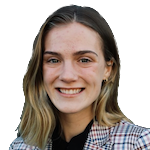
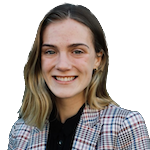
Updated Intro and headshot

diff --git a/docs/_build/html/searchindex.js b/docs/_build/html/searchindex.js
@@ -1,1 +1,1 @@
-Search.setIndex({docnames:["Average Sales by Age","Introduction","New Project File","Summary","Visualizations"],envversion:{"sphinx.domains.c":2,"sphinx.domains.changeset":1,"sphinx.domains.citation":1,"sphinx.domains.cpp":5,"sphinx.domains.index":1,"sphinx.domains.javascript":2,"sphinx.domains.math":2,"sphinx.domains.python":3,"sphinx.domains.rst":2,"sphinx.domains.std":2,"sphinx.ext.intersphinx":1,sphinx:56},filenames:["Average Sales by Age.ipynb","Introduction.ipynb","New Project File.ipynb","Summary.ipynb","Visualizations.ipynb"],objects:{},objnames:{},objtypes:{},terms:{"0":[2,3,4],"077016":[2,4],"1":[1,3,4],"10":[2,4],"100":[2,4],"1000":2,"10000085475":2,"10000089277":2,"1000205":2,"1000237":2,"1000285":2,"1000411":2,"1000830":2,"10456329":2,"10457608":2,"1070684416":[],"11":[2,4],"112767":2,"12":2,"12385921":2,"124k":[2,4],"125":[2,4],"13":[1,3,4],"1453":2,"149k":[2,4],"15":[2,3,4],"150":[2,4],"15k":[2,4],"163346":[2,4],"174k":[2,4],"175":[2,4],"17554063":2,"18":[3,4],"1811728083":2,"19":2,"199k":[2,4],"2":[2,4],"200":[2,4],"2017":3,"2022_bana6043_berryerer_day2jn_desilvhm_finalprojectvideo":3,"22":3,"22copyembedcod":3,"22hv":3,"22ust":3,"2317":2,"24":2,"24545617":2,"249k":[2,4],"24k":[2,4],"25":[2,4],"250k":[2,4],"286185":[2,4],"2c":3,"3":[1,2,3,4],"300":[],"306641":[2,4],"31":[1,2,3,4],"31668825":2,"31668826":2,"31668827":2,"31668828":2,"31668829":2,"34k":[2,4],"35":[0,2,4],"360":3,"3630060786":[],"395323":[2,4],"3a":3,"3atru":3,"4":[1,2,3,4],"4078123064":2,"432552":[2,4],"44":2,"45":[2,3,4],"451712":[2,4],"46692307692":2,"4945":3,"49k":[2,4],"5":[2,4],"50":[2,4],"520661":[2,4],"54":[2,3,4],"55":2,"56214437":2,"56214438":2,"56214439":2,"56214440":2,"56214441":2,"59986600074":2,"6":[2,4],"600":[],"64":[0,4],"640":3,"6878787":2,"6961675":2,"6ae5":3,"7":[1,2,3,4],"707235":[2,4],"739900":[2,4],"74k":[2,4],"75":[2,4],"77045":2,"7b":3,"7d":3,"8":[3,4],"8104":3,"811392":[2,4],"826915":[2,4],"850118":[2,4],"877774":2,"9":[1,2,3,4],"910096":[2,4],"983829":[2,4],"985395":[2,4],"992532":[2,4],"996083":[2,4],"99k":[2,4],"default":2,"do":[],"final":[],"function":2,"import":[0,2,4],"new":2,"return":[1,2],"true":2,"try":2,"var":2,"while":[1,2],A:2,But:[1,2],By:[1,2],For:[1,2],In:[2,4],It:2,The:[1,2,4],These:2,To:4,_layout:3,aa525dc29576:3,abov:[2,4],accord:2,achiev:[2,4],across:[3,4],add_tool:2,advis:3,affect:[0,1,4],afterward:2,ag:[0,3],age_group:[0,4],agg:[0,2,4],all:2,allow:[],allowfullscreen:3,alreadi:[],also:[1,2,3],although:3,an:3,analysi:3,ani:2,answer:[1,2],ar:[2,3,4],around:1,articl:[],as_index:[2,4],ascend:[2,4],aspx:3,assembl:2,august:[3,4],avail:[1,2,3],averag:[0,3,4],awar:[1,2],ax1:2,ax2:2,ax3:2,ax7:2,ax8:2,ax9:2,ax:[2,4],ax_arrai:2,axessubplot:2,axis_label:2,back:[3,4],bar:[0,2,4],barh:[2,4],bd012d2b:3,been:[],befor:3,believ:[1,2,3],benefici:[0,4],benefit:[2,4],berri:1,berryer_mail_uc_edu:3,best:2,better:[1,2],between:4,blue:2,bokeh:2,bokehj:2,both:2,bradleyboehmk:[],brand:[1,2],bring:2,brought:2,build:[1,2],busi:[1,2],call:2,cam13_ag:2,cam18_ag:2,cam8_ag:2,cam:2,campaign13_redempt:2,campaign13_transact:2,campaign:[0,1,3],campaign_18_redempt:2,campaign_descript:[0,2,4],campaign_id:[2,4],can:[1,2,3,4],capit:2,categori:4,caus:3,caveat:2,center:2,certain:2,chart:[2,4],check:2,cj_data:[0,2,4],clear:[0,2,4],col_index:2,color:[2,4],color_mapp:2,column:2,columndatasourc:2,com:3,combin:[1,2],compar:[],compil:1,completejournei:[0,1,2,3,4],completejourney_pi:[0,2,4],comput:[0,2],condit:[0,2,4],consid:[0,4],constrained_layout:2,copi:2,corner:2,count:[2,4],coupl:3,coupon:[0,1,3],coupon_redempt:[0,2,4],coupon_redmpt:4,coupon_transact:[2,4],coupon_upc_i:2,coupon_upc_x:2,cpython:[1,3,4],creat:[1,2,3],cumul:2,custom:[1,2,3,4],dai:[1,2,4],data:[1,3],datafram:2,dataset:2,date:2,datetim:[2,4],deeper:[2,4],defin:2,deli:2,demograph:[0,1,2,3],depart:1,desilva:1,determin:[1,2,3,4],df1:[0,2,4],df2:[0,2],df_campaign:[2,4],df_campaigns_13:2,df_campaigns_18:2,df_campaigns_8:2,df_department_13:2,df_department_18:2,df_department_8:2,dictionari:[0,2,4],did:[2,3],differ:[3,4],discov:[0,2,4],discuss:1,displai:2,distribut:[0,3,4],dive:[2,4],doc:2,document:2,dollar:2,domepgraph:4,drug:2,dt:[2,4],dtype:2,due:4,dure:[0,1,2,3,4],each:[0,1,4],earn:[2,4],easili:2,effect:[1,2,4],effici:[1,2],elayna:1,elimin:2,emb:3,embeddialog:3,enabl:2,evalu:[1,2,4],except:[],explicitli:2,exploratori:1,extens:[],factor:2,factor_cmap:2,fals:[2,4],faster:[0,2],fig:2,figsiz:[2,4],figur:[1,2,3],fill_color:2,find:[1,2,3,4],first:[1,2,4],focu:[0,1,2,3,4],focus:[1,2,3],folder:2,follow:[0,2,3,4],found:[2,3],foundat:[0,2],frame:[0,1,2,4],frame_height:2,framebord:3,from:[0,2,4],full:[],gener:[1,2,3,4],get_data:[0,2,4],github:[],given:3,gm:2,go:3,graph:2,greatli:3,green:[2,4],grei:2,groceri:2,group:[0,1,3],groupbi:[0,2,4],ha:1,had:3,hashani:1,have:[1,2,3,4],head:2,height:3,help:[1,2,3],high:3,higher:[1,2,3,4],highest:[1,2,3,4],holidai:[1,2,3,4],home:4,home_ownership:[2,4],homeown:[2,3,4],homeowner_valu:[2,4],hous:[],household:3,household_id:[0,2,4],hover:2,hovertool:2,how:[0,1,2,4],howev:[],html:[2,3],http:[2,3],identifi:[1,2],ifram:3,impact:[],implement:[1,3,4],improv:[1,2,3],includ:3,incom:[2,3,4],increas:[1,2,3,4],index:2,inner:[0,2,4],instead:[2,3],interact:2,interest:[0,2,4],intersect:2,introduc:[2,3],invest:[1,2],io:2,ipykernel_10838:[],ipykernel_10924:[],ipykernel_11602:2,ipykernel_11618:[],ipykernel_12096:[],ipython:[1,3,4],isin:2,jason:1,jitter:2,jupyterlab:[1,3,4],kind:[0,2,4],larg:[1,2],last:2,layout:2,least:[],left:2,legend:[2,4],legend_field:2,less:[],let:[2,4],leverag:[],lift:[1,2],like:2,line:[2,4],line_color:2,load:2,load_ext:[1,3,4],loc:2,locat:2,look:[2,4],low:[2,3],lower:[2,4],loyalti:[1,2],m_:2,made:[0,3,4],mai:4,mailuc:3,main:2,manipul:[0,2,4],mapper:2,marital_statu:[2,4],market:[],marri:[2,3,4],married_valu:[2,4],matplotlib:[0,2,4],mean:[0,2,4],merg:[0,2,4],middl:2,might:3,miscellan:2,mode:2,model:2,modul:2,monei:[0,4],month:[2,3,4],more:[0,2,3,4],most:1,mostli:4,mous:2,mp4:3,much:3,must:2,my:3,name:[],nameerror:2,navig:[],need:4,next:[0,2,4],nlargest:2,notebook:2,novemb:[3,4],now:[2,4],np:[0,2,4],numpi:[0,2,4],object:2,observ:2,occur:[1,2],often:3,onc:[0,2,4],one:[1,2],ones:[1,2],opportun:3,optim:[1,2],orang:2,order:2,org:2,other:[1,2],our:[0,2,3,4],out:[1,2,3,4],output_notebook:2,over:3,p:[1,3,4],packag:0,palett:2,panda:[0,2,4],paragraph:2,pattern:2,pd:[0,2,4],peopl:[0,3,4],per:2,person:3,plot:[0,2,4],plt:[0,2,4],popul:3,postal:2,power:[3,4],price:3,primari:2,priorit:[0,2,4],probabl:[2,4],problem:[1,2],product:[0,1],product_id:[0,2],project:[1,3],promot:[0,1,2,3,4],properli:4,propos:[],provid:[],purchas:4,purpl:2,put:2,py:2,pydata:2,pyplot:[0,2,4],python:[0,1,2,3,4],qj_5t76n7nd04vpk93_tlblr0000gp:2,queri:2,quit:4,rang:2,recent:2,recommend:3,red:2,redeem:[2,3],redempt:1,redemption_d:[2,4],referr:3,referrerscenario:3,regork:[0,2,3,4],relat:[0,2,4],reload:[],reload_ext:[],remain:4,renter:[2,4],reproduc:4,result:2,revenu:[1,2,3,4],right:[1,2,3],round:[1,2],row:2,row_index:2,run:[1,2],s:[2,3,4],salary_valu:[2,4],sale:[0,1,3],sales_valu:[0,2,4],same:2,scatter:2,schedul:[1,2],school:[3,4],scroll:3,season:4,second:2,section:[1,2,4],see:[1,2,4],send:4,set:2,set_titl:2,set_xlabel:[2,4],set_ylabel:2,settingwithcopywarn:2,sharepoint:3,shop:3,should:[2,3,4],show:2,similar:4,sinc:[0,2,3,4],sizing_mod:2,slice:2,slightli:4,some:[1,2],sort_valu:[2,4],sourc:2,source1:2,source2:2,source3:2,spend:[0,3,4],src:3,stabl:2,start:[0,2,4],statement:[0,2,4],step:[0,2,4],streamwebapp:3,stretch_width:2,student:3,studi:3,submodul:2,subplot:2,sum:[1,2,4],summari:1,t:2,take:[2,4],target:[2,3,4],test:2,text:2,than:[0,2],thei:[3,4],them:[1,2,3],therefor:[0,2,4],thi:[1,2,4],those:4,three:[2,4],through:[1,2,3,4],tidi:[0,2,4],time:[1,3],titl:[0,2,3,4],to_datetim:[2,4],to_fram:[2,4],too:3,took:[2,4],tool:2,tooltip:2,top:[1,2,3],top_campaign_redempt:2,top_campaign_transact:2,top_left:2,total:[2,3,4],toward:[2,3,4],traceback:2,transact:[0,1,2,4],transaction_d:2,transaction_tim:2,transaction_timestamp:2,transform:2,trend:[0,2,3,4],turn:2,two:2,under:[2,4],uniqu:2,uniqueid:3,unmarri:[2,4],us:[0,1,2,3,4],user_guid:2,v:[1,3,4],valu:[0,2,3],valuabl:[2,4],vari:[3,4],veq8cxfwlzu:[],version:[1,3,4],versu:2,view:2,visual:[0,2],volum:[],wa:[0,2,3,4],want:[2,4],watermark:[1,3,4],we:[0,1,2,3,4],were:[0,1,4],what:[2,4],when:[0,2,4],where:[],whether:[1,2],which:[],whole:2,width:[2,3],within:[0,2,3,4],work:[0,2],would:[0,4],x:[2,4],x_axis_typ:2,xlabel:[0,2,4],y:[2,4],y_rang:2,yaxi:2,year:[1,2,3,4],yield:2,ylabel:[0,2,4],you:4,youngest:2,youtubevideo:[]},titles:["Exploratory Data Analysis <a name=\"Section3\"></a>","Introduction","Final Project - Group 1","Summary","Exploratory Data Analysis"],titleterms:{"1":2,"13":2,"18":2,"2017":2,"8":2,"final":2,affect:2,ag:[2,4],analysi:[0,2,4],campaign:[2,4],clean:4,coupon:[2,4],data:[0,2,4],demograph:4,depart:2,each:2,environ:[1,3,4],exploratori:[0,2,4],group:[2,4],introduct:[1,2],librari:[2,4],meet:1,most:[2,4],name:[0,2],opportun:1,our:1,over:[2,4],packag:[2,4],prep:4,product:[2,4],project:2,redempt:[2,4],regork:1,requir:[2,4],s:1,sale:[2,4],section1:2,section2:2,section3:[0,2],section4:2,sold:[2,4],summari:[2,3],team:1,time:[2,4],valu:4,video:3,visual:4,were:2,which:[2,4],written:3}})
+Search.setIndex({docnames:["Average Sales by Age","Introduction","New Project File","Summary","Visualizations"],envversion:{"sphinx.domains.c":2,"sphinx.domains.changeset":1,"sphinx.domains.citation":1,"sphinx.domains.cpp":5,"sphinx.domains.index":1,"sphinx.domains.javascript":2,"sphinx.domains.math":2,"sphinx.domains.python":3,"sphinx.domains.rst":2,"sphinx.domains.std":2,"sphinx.ext.intersphinx":1,sphinx:56},filenames:["Average Sales by Age.ipynb","Introduction.ipynb","New Project File.ipynb","Summary.ipynb","Visualizations.ipynb"],objects:{},objnames:{},objtypes:{},terms:{"0":[2,3,4],"077016":[2,4],"1":[1,3,4],"10":[2,4],"100":[2,4],"1000":2,"10000085475":2,"10000089277":2,"1000205":2,"1000237":2,"1000285":2,"1000411":2,"1000830":2,"10456329":2,"10457608":2,"1070684416":[],"11":[2,4],"112767":2,"12":2,"12385921":2,"124k":[2,4],"125":[2,4],"13":[1,3,4],"1453":2,"149k":[2,4],"15":[2,3,4],"150":[2,4],"15k":[2,4],"163346":[2,4],"174k":[2,4],"175":[2,4],"17554063":2,"18":[3,4],"1811728083":2,"19":2,"199k":[2,4],"2":[2,4],"200":[2,4],"2017":3,"2022_bana6043_berryerer_day2jn_desilvhm_finalprojectvideo":[],"22":3,"22copyembedcod":3,"22hv":3,"22ust":3,"2317":2,"24":2,"24545617":2,"249k":[2,4],"24k":[2,4],"25":[2,4],"250k":[2,4],"286185":[2,4],"2c":3,"3":[1,2,3,4],"300":[],"306641":[2,4],"31":[1,2,3,4],"31668825":2,"31668826":2,"31668827":2,"31668828":2,"31668829":2,"34k":[2,4],"35":[0,2,4],"360":3,"3630060786":[],"395323":[2,4],"3a":3,"3atru":3,"4":[1,2,3,4],"4078123064":2,"432552":[2,4],"44":2,"45":[2,3,4],"451712":[2,4],"46692307692":2,"4945":3,"49k":[2,4],"5":[2,4],"50":[2,4],"520661":[2,4],"54":[2,3,4],"55":2,"56214437":2,"56214438":2,"56214439":2,"56214440":2,"56214441":2,"59986600074":2,"6":[2,4],"600":[],"64":[0,4],"640":3,"6878787":2,"6961675":2,"6ae5":3,"7":[1,2,3,4],"707235":[2,4],"739900":[2,4],"74k":[2,4],"75":[2,4],"77045":2,"7b":3,"7d":3,"8":[3,4],"8104":3,"811392":[2,4],"826915":[2,4],"850118":[2,4],"877774":2,"9":[1,2,3,4],"910096":[2,4],"983829":[2,4],"985395":[2,4],"992532":[2,4],"996083":[2,4],"99k":[2,4],"default":2,"do":[],"final":[],"function":2,"import":[0,2,4],"new":2,"return":[1,2],"true":2,"try":2,"var":2,"while":2,A:2,But:2,By:[1,2],For:[1,2],In:[2,4],It:2,The:[1,2,4],These:2,To:4,_layout:3,aa525dc29576:3,abov:[2,4],accord:2,achiev:[2,4],across:[3,4],add_tool:2,advis:3,affect:[0,4],afterward:2,ag:[0,3],age_group:[0,4],agg:[0,2,4],all:2,allow:[],allowfullscreen:3,alreadi:[],also:[1,2,3],although:3,an:3,analysi:3,ani:2,answer:[1,2],ar:[2,3,4],around:1,articl:[],as_index:[2,4],ascend:[2,4],aspx:3,assembl:2,august:[3,4],avail:[1,2,3],averag:[0,3,4],awar:[1,2],ax1:2,ax2:2,ax3:2,ax7:2,ax8:2,ax9:2,ax:[2,4],ax_arrai:2,axessubplot:2,axis_label:2,back:[3,4],bar:[0,2,4],barh:[2,4],bd012d2b:3,been:[],befor:3,believ:[1,2,3],benefici:[0,4],benefit:[2,4],berri:1,berryer_mail_uc_edu:3,best:2,better:2,between:4,blue:2,bokeh:2,bokehj:2,both:2,bradleyboehmk:[],brand:[1,2],bring:2,brought:2,build:[1,2],busi:[1,2],call:2,cam13_ag:2,cam18_ag:2,cam8_ag:2,cam:2,campaign13_redempt:2,campaign13_transact:2,campaign:[0,1,3],campaign_18_redempt:2,campaign_descript:[0,2,4],campaign_id:[2,4],can:[1,2,3,4],capit:2,categori:4,caus:3,caveat:2,center:2,certain:2,chart:[2,4],check:2,cj_data:[0,2,4],clear:[0,2,4],col_index:2,color:[2,4],color_mapp:2,column:2,columndatasourc:2,com:3,combin:[1,2],compar:[],compil:1,completejournei:[0,1,2,3,4],completejourney_pi:[0,2,4],comput:[0,2],condit:[0,2,4],consid:[0,4],constrained_layout:2,copi:2,corner:2,count:[2,4],coupl:3,coupon:[0,1,3],coupon_redempt:[0,2,4],coupon_redmpt:4,coupon_transact:[2,4],coupon_upc_i:2,coupon_upc_x:2,cpython:[1,3,4],creat:[1,2,3],cumul:2,custom:[1,2,3,4],dai:[1,2,4],data:[1,3],datafram:2,dataset:2,date:2,datetim:[2,4],deeper:[2,4],defin:2,deli:2,demograph:[0,1,2,3],depart:[],desilva:1,determin:[1,2,3,4],df1:[0,2,4],df2:[0,2],df_campaign:[2,4],df_campaigns_13:2,df_campaigns_18:2,df_campaigns_8:2,df_department_13:2,df_department_18:2,df_department_8:2,dictionari:[0,2,4],did:[2,3],differ:[3,4],discov:[0,2,4],discuss:1,displai:2,distribut:[0,3,4],dive:[2,4],doc:2,document:2,dollar:2,domepgraph:4,drug:2,dt:[2,4],dtype:2,due:4,dure:[0,2,3,4],each:[0,1,4],earn:[2,4],easili:2,effect:[1,2,4],effici:[1,2],elayna:1,elimin:2,emb:3,embeddialog:3,enabl:2,evalu:[2,4],except:[],explicitli:2,exploratori:1,extens:[],factor:2,factor_cmap:2,fals:[2,4],faster:[0,2],fig:2,figsiz:[2,4],figur:[2,3],fill_color:2,find:[1,2,3,4],first:[1,2,4],focu:[0,2,3,4],focus:[2,3],folder:2,follow:[0,2,3,4],found:[2,3],foundat:[0,2],frame:[0,1,2,4],frame_height:2,framebord:3,from:[0,2,4],full:[],gener:[1,2,3,4],get_data:[0,2,4],github:[],given:3,gm:2,go:3,graph:2,greatli:3,green:[2,4],grei:2,groceri:2,group:[0,1,3],groupbi:[0,2,4],ha:1,had:3,hashani:1,have:[2,3,4],head:2,height:3,help:[1,2,3],high:3,higher:[1,2,3,4],highest:[1,2,3,4],holidai:[2,3,4],home:4,home_ownership:[2,4],homeown:[2,3,4],homeowner_valu:[2,4],hous:[],household:3,household_id:[0,2,4],hover:2,hovertool:2,how:[0,2,4],howev:[],html:[2,3],http:[2,3],identifi:[1,2],ifram:3,impact:[],implement:[1,3,4],improv:[1,2,3],includ:3,incom:[2,3,4],increas:[1,2,3,4],index:2,inner:[0,2,4],instead:[2,3],interact:2,interest:[0,2,4],intersect:2,introduc:[2,3],invest:[1,2],io:2,ipykernel_10838:[],ipykernel_10924:[],ipykernel_11602:2,ipykernel_11618:[],ipykernel_12096:[],ipython:[1,3,4],isin:2,jason:1,jitter:2,jupyterlab:[1,3,4],kind:[0,2,4],larg:[1,2],last:2,layout:2,least:[],left:2,legend:[2,4],legend_field:2,less:[],let:[2,4],leverag:[],lift:[1,2],like:2,line:[2,4],line_color:2,load:2,load_ext:[1,3,4],loc:2,locat:2,look:[2,4],low:[2,3],lower:[2,4],loyalti:[1,2],m_:2,made:[0,3,4],mai:4,mailuc:3,main:2,manipul:[0,2,4],mapper:2,marital_statu:[2,4],market:[],marri:[2,3,4],married_valu:[2,4],matplotlib:[0,2,4],mean:[0,2,4],merg:[0,2,4],middl:2,might:3,miscellan:2,mode:2,model:2,modul:2,monei:[0,4],month:[2,3,4],more:[0,2,3,4],most:1,mostli:4,mous:2,mp4:[],much:3,must:2,my:3,name:[],nameerror:2,navig:[],need:4,next:[0,2,4],nlargest:2,notebook:2,novemb:[3,4],now:[2,4],np:[0,2,4],numpi:[0,2,4],object:2,observ:2,occur:2,often:3,onc:[0,2,4],one:[1,2],ones:2,opportun:3,optim:[1,2],orang:2,order:2,org:2,other:2,our:[0,2,3,4],out:[2,3,4],output_notebook:2,over:3,p:[1,3,4],packag:0,palett:2,panda:[0,2,4],paragraph:2,pattern:2,pd:[0,2,4],peopl:[0,3,4],per:2,person:3,plot:[0,2,4],plt:[0,2,4],popul:3,postal:2,power:[3,4],present:3,price:3,primari:2,priorit:[0,2,4],probabl:[2,4],problem:[1,2],product:[0,1],product_id:[0,2],project:[1,3],promot:[0,2,3,4],properli:4,propos:[],provid:[],purchas:4,purpl:2,put:2,py:2,pydata:2,pyplot:[0,2,4],python:[0,1,2,3,4],qj_5t76n7nd04vpk93_tlblr0000gp:2,queri:2,quit:4,rang:2,recent:2,recommend:3,red:2,redeem:[2,3],redempt:1,redemption_d:[2,4],referr:3,referrerscenario:3,regork:[0,2,3,4],relat:[0,2,4],reload:[],reload_ext:[],remain:4,renter:[2,4],reproduc:4,result:2,revenu:[1,2,3,4],right:[1,2,3],round:2,row:2,row_index:2,run:2,s:[2,3,4],salary_valu:[2,4],sale:[0,1,3],sales_valu:[0,2,4],same:2,scatter:2,schedul:[1,2],school:[3,4],scroll:3,season:4,second:2,section:[1,2,4],see:[1,2,4],send:4,set:2,set_titl:2,set_xlabel:[2,4],set_ylabel:2,settingwithcopywarn:2,sharepoint:3,shop:3,should:[2,3,4],show:2,similar:4,sinc:[0,2,3,4],sizing_mod:2,slice:2,slightli:4,some:2,sort_valu:[2,4],sourc:2,source1:2,source2:2,source3:2,spend:[0,3,4],src:3,stabl:2,start:[0,2,4],statement:[0,2,4],step:[0,2,4],streamwebapp:3,stretch_width:2,student:3,studi:3,submodul:2,subplot:2,sum:[1,2,4],summari:1,t:2,take:[2,4],target:[2,3,4],test:2,text:2,than:[0,2],thei:[3,4],them:[2,3],therefor:[0,2,4],thi:[1,2,4],those:4,three:[2,4],through:[1,2,3,4],tidi:[0,2,4],time:[1,3],titl:[0,2,3,4],to_datetim:[2,4],to_fram:[2,4],too:3,took:[2,4],tool:2,tooltip:2,top:[2,3],top_campaign_redempt:2,top_campaign_transact:2,top_left:2,total:[2,3,4],toward:[2,3,4],traceback:2,transact:[0,1,2,4],transaction_d:2,transaction_tim:2,transaction_timestamp:2,transform:2,trend:[0,2,3,4],turn:2,two:2,under:[2,4],uniqu:2,uniqueid:3,unmarri:[2,4],us:[0,1,2,3,4],user_guid:2,v:[1,3,4],valu:[0,2,3],valuabl:[2,4],vari:[3,4],veq8cxfwlzu:[],version:[1,3,4],versu:2,view:2,visual:[0,2],volum:[],wa:[0,2,3,4],want:[2,4],watermark:[1,3,4],we:[0,1,2,3,4],were:[0,1,4],what:[2,4],when:[0,2,4],where:[],whether:2,which:[],whole:2,width:[2,3],within:[0,2,3,4],work:[0,2],would:[0,4],x:[2,4],x_axis_typ:2,xlabel:[0,2,4],y:[2,4],y_rang:2,yaxi:2,year:[2,3,4],yield:2,ylabel:[0,2,4],you:4,youngest:2,youtubevideo:[]},titles:["Exploratory Data Analysis <a name=\"Section3\"></a>","Introduction","Final Project - Group 1","Summary","Exploratory Data Analysis"],titleterms:{"1":2,"13":2,"18":2,"2017":2,"8":2,"final":2,affect:2,ag:[2,4],analysi:[0,2,4],campaign:[2,4],clean:4,coupon:[2,4],data:[0,2,4],demograph:4,depart:2,each:2,environ:[1,3,4],exploratori:[0,2,4],group:[2,4],introduct:[1,2],librari:[2,4],meet:1,most:[2,4],name:[0,2],opportun:1,our:1,over:[2,4],packag:[2,4],prep:4,product:[2,4],project:2,redempt:[2,4],regork:1,requir:[2,4],s:1,sale:[2,4],section1:2,section2:2,section3:[0,2],section4:2,sold:[2,4],summari:[2,3],team:1,time:[2,4],valu:4,video:3,visual:4,were:2,which:[2,4],written:3}})

diff --git a/docs/_build/html/Summary.html b/docs/_build/html/Summary.html
@@ -364,12 +364,12 @@ title="Print to PDF"
 <div class="cell docutils container">
 <div class="cell_input docutils container">
 <div class="highlight-ipython3 notranslate"><div class="highlight"><pre><span></span><span class="o">%%html</span>
-<span class="p">&lt;</span><span class="nt">iframe</span> <span class="na">src</span><span class="o">=</span><span class="s">&quot;https://mailuc-my.sharepoint.com/personal/berryer_mail_uc_edu/_layouts/15/embed.aspx?UniqueId=bd012d2b-6ae5-4945-8104-aa525dc29576&amp;embed=%7B%22ust%22%3Atrue%2C%22hv%22%3A%22CopyEmbedCode%22%7D&amp;referrer=StreamWebApp&amp;referrerScenario=EmbedDialog.Create&quot;</span> <span class="na">width</span><span class="o">=</span><span class="s">&quot;640&quot;</span> <span class="na">height</span><span class="o">=</span><span class="s">&quot;360&quot;</span> <span class="na">frameborder</span><span class="o">=</span><span class="s">&quot;0&quot;</span> <span class="na">scrolling</span><span class="o">=</span><span class="s">&quot;no&quot;</span> <span class="na">allowfullscreen</span> <span class="na">title</span><span class="o">=</span><span class="s">&quot;2022_BANA6043_berryerer_day2jn_desilvhm_finalprojectvideo.mp4&quot;</span><span class="p">&gt;&lt;/</span><span class="nt">iframe</span><span class="p">&gt;</span>
+<span class="p">&lt;</span><span class="nt">iframe</span> <span class="na">src</span><span class="o">=</span><span class="s">&quot;https://mailuc-my.sharepoint.com/personal/berryer_mail_uc_edu/_layouts/15/embed.aspx?UniqueId=bd012d2b-6ae5-4945-8104-aa525dc29576&amp;embed=%7B%22ust%22%3Atrue%2C%22hv%22%3A%22CopyEmbedCode%22%7D&amp;referrer=StreamWebApp&amp;referrerScenario=EmbedDialog.Create&quot;</span> <span class="na">width</span><span class="o">=</span><span class="s">&quot;640&quot;</span> <span class="na">height</span><span class="o">=</span><span class="s">&quot;360&quot;</span> <span class="na">frameborder</span><span class="o">=</span><span class="s">&quot;0&quot;</span> <span class="na">scrolling</span><span class="o">=</span><span class="s">&quot;no&quot;</span> <span class="na">allowfullscreen</span> <span class="na">title</span><span class="o">=</span><span class="s">&quot;Regork Presentation&quot;</span><span class="p">&gt;&lt;/</span><span class="nt">iframe</span><span class="p">&gt;</span>
 </pre></div>
 </div>
 </div>
 <div class="cell_output docutils container">
-<div class="output text_html"><iframe src="https://mailuc-my.sharepoint.com/personal/berryer_mail_uc_edu/_layouts/15/embed.aspx?UniqueId=bd012d2b-6ae5-4945-8104-aa525dc29576&embed=%7B%22ust%22%3Atrue%2C%22hv%22%3A%22CopyEmbedCode%22%7D&referrer=StreamWebApp&referrerScenario=EmbedDialog.Create" width="640" height="360" frameborder="0" scrolling="no" allowfullscreen title="2022_BANA6043_berryerer_day2jn_desilvhm_finalprojectvideo.mp4"></iframe>
+<div class="output text_html"><iframe src="https://mailuc-my.sharepoint.com/personal/berryer_mail_uc_edu/_layouts/15/embed.aspx?UniqueId=bd012d2b-6ae5-4945-8104-aa525dc29576&embed=%7B%22ust%22%3Atrue%2C%22hv%22%3A%22CopyEmbedCode%22%7D&referrer=StreamWebApp&referrerScenario=EmbedDialog.Create" width="640" height="360" frameborder="0" scrolling="no" allowfullscreen title="Regork Presentation"></iframe>
 </div></div>
 </div>
 </section>

diff --git a/docs/_build/html/Introduction.html b/docs/_build/html/Introduction.html
@@ -380,8 +380,7 @@ title="Print to PDF"
 </table></section>
 <section id="regork-s-opportunity">
 <h2>Regork’s Opportunity<a class="headerlink" href="#regork-s-opportunity" title="Permalink to this headline">#</a></h2>
-<p>Regork has compiled data around campaigns, transactions, coupon redemption, and customers. We believe Regork can increase the effectiveness of their campaigns through identifying the most effective campaign for the right customer, at the right time. Improving the efficiency of campaigns helps to first lift sales. But campaigns also help build brand awareness and customer loyalty. By optimizing our campaign schedule, we believe Regork will see a higher return on investment.</p>
-<p>Some use promotional campaigns during the holidays while others, such as, Regork have campaigns that occur year-round. We evaluate the effectiveness of Regork’s campaigns by determining the top campaigns run by Regork and figuring out how to improve them. Our focus is to figure out how these campaigns affected sales, departments and whether it’s better to have year-round campaigns or holiday focused ones.</p>
+<p>Regork has compiled data around campaigns, transactions, coupon redemption, and customers. <strong>We believe Regork can increase the effectiveness of their campaigns through identifying the most effective campaign for the right customer, at the right time.</strong> Improving the efficiency of campaigns helps to first lift sales, but campaigns also help build brand awareness and customer loyalty. By optimizing our campaign schedule, we believe Regork will see a higher return on investment.</p>
 <p>For this project we used the <a class="reference external" href="https://bradleyboehmke.github.io/completejourney/articles/completejourney.html">completejourney</a> data to answer our business problem. The data available on transactions, demographics, products and campaigns were combined to create one large data frame. Our group determined the campaigns that generate the highest revenue by finding the sum of sales for each campaign. We will discuss our findings in the Exploratory Data and Summary Sections.</p>
 </section>
 </section>

diff --git a/docs/_build/jupyter_execute/Introduction.py b/docs/_build/jupyter_execute/Introduction.py
@@ -25,9 +25,7 @@
 
 # ## Regork's Opportunity
 
-# Regork has compiled data around campaigns, transactions, coupon redemption, and customers. We believe Regork can increase the effectiveness of their campaigns through identifying the most effective campaign for the right customer, at the right time. Improving the efficiency of campaigns helps to first lift sales. But campaigns also help build brand awareness and customer loyalty. By optimizing our campaign schedule, we believe Regork will see a higher return on investment.
-# 
-# Some use promotional campaigns during the holidays while others, such as, Regork have campaigns that occur year-round. We evaluate the effectiveness of Regork’s campaigns by determining the top campaigns run by Regork and figuring out how to improve them. Our focus is to figure out how these campaigns affected sales, departments and whether it’s better to have year-round campaigns or holiday focused ones.
+# Regork has compiled data around campaigns, transactions, coupon redemption, and customers. <strong>We believe Regork can increase the effectiveness of their campaigns through identifying the most effective campaign for the right customer, at the right time.</strong> Improving the efficiency of campaigns helps to first lift sales, but campaigns also help build brand awareness and customer loyalty. By optimizing our campaign schedule, we believe Regork will see a higher return on investment.
 # 
 # For this project we used the [completejourney](https://bradleyboehmke.github.io/completejourney/articles/completejourney.html) data to answer our business problem. The data available on transactions, demographics, products and campaigns were combined to create one large data frame. Our group determined the campaigns that generate the highest revenue by finding the sum of sales for each campaign. We will discuss our findings in the Exploratory Data and Summary Sections.
 # 

diff --git a/docs/_build/jupyter_execute/summary.py b/docs/_build/jupyter_execute/summary.py
@@ -8,7 +8,7 @@
 # In[1]:
 
 
-get_ipython().run_cell_magic('html', '', '<iframe src="https://mailuc-my.sharepoint.com/personal/berryer_mail_uc_edu/_layouts/15/embed.aspx?UniqueId=bd012d2b-6ae5-4945-8104-aa525dc29576&embed=%7B%22ust%22%3Atrue%2C%22hv%22%3A%22CopyEmbedCode%22%7D&referrer=StreamWebApp&referrerScenario=EmbedDialog.Create" width="640" height="360" frameborder="0" scrolling="no" allowfullscreen title="2022_BANA6043_berryerer_day2jn_desilvhm_finalprojectvideo.mp4"></iframe>')
+get_ipython().run_cell_magic('html', '', '<iframe src="https://mailuc-my.sharepoint.com/personal/berryer_mail_uc_edu/_layouts/15/embed.aspx?UniqueId=bd012d2b-6ae5-4945-8104-aa525dc29576&embed=%7B%22ust%22%3Atrue%2C%22hv%22%3A%22CopyEmbedCode%22%7D&referrer=StreamWebApp&referrerScenario=EmbedDialog.Create" width="640" height="360" frameborder="0" scrolling="no" allowfullscreen title="Regork Presentation"></iframe>')
 
 
 # ## Written Summary
